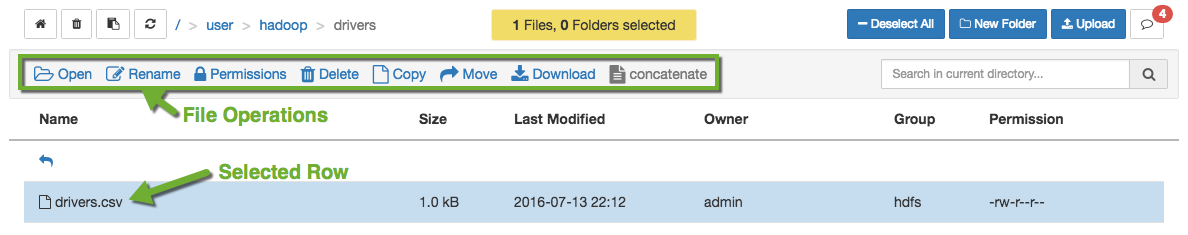
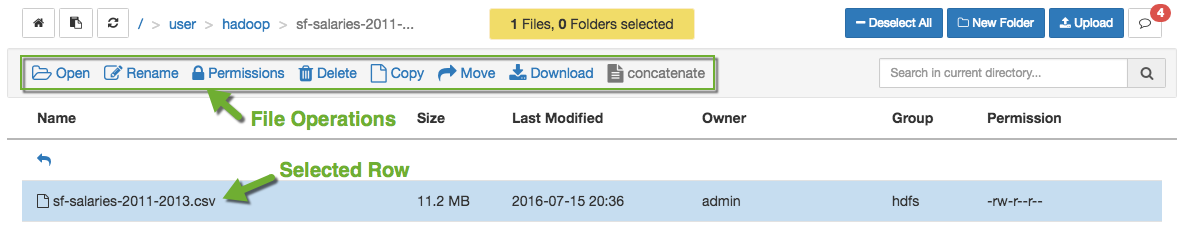
updated tutorial 2
- added new pictures
- updated some instructions

diff --git a/tutorials/hortonworks/using-the-command-line-to-manage-files-on-hdfs/tutorial2.md b/tutorials/hortonworks/using-the-command-line-to-manage-files-on-hdfs/tutorial2.md
@@ -33,15 +33,16 @@ cd ~/Downloads
 wget https://raw.githubusercontent.com/hortonworks/tutorials/hdp/assets/using-the-command-line-to-manage-hdfs/sf-salary-datasets/sf-salaries-2011-2013.csv
 # download sf-salaries-2014
 wget https://raw.githubusercontent.com/hortonworks/tutorials/hdp/assets/using-the-command-line-to-manage-hdfs/sf-salary-datasets/sf-salaries-2014.csv
+mkdir sf-salary-datasets
+mv sf-salaries-2011-2013.csv sf-salaries-2014.csv sf-salary-datasets/
 ~~~
 
-![list_geolocation_contents](/assets/using-the-command-line-to-manage-hdfs/list_geolocation_contents.png)
 
 ## Goals for this Module:
 *  Learn how to use HDFS from Ambari Files View
 
 ## Outline
-- [Step 1: Create a directory in HDFS, Upload a file and List Contents](#create-a-directory-in-hdfs-upload-a-file-and-list-contents)
+- [Step 1: Create a Directory in HDFS, Upload a file and List Contents](#create-a-directory-in-hdfs-upload-a-file-and-list-contents)
 - [Step 2: Find Out Space Utilization in a HDFS Directory](#find-out-space-utilization-in-a-hdfs-directory)
 - [Step 3: Download Files From HDFS to Local Machine() ](#download-files-hdfs-to-local-file-system)
 - [Step 4: Explore Two Advanced Features](#explore-two-advanced-features)
@@ -78,7 +79,7 @@ The Files View Interface will appear with the following default folders.
 
 4\. Navigate into the **hadoop** folder. Create the _three folders_: **sf-salaries-2011-2013, sf-salaries and sf-salaries-2014** following the process stated in the previous instruction.
 
-![vehicle_related_folders](/assets/using-the-command-line-to-manage-hdfs/tutorial2/vehicle_related_folders.png)
+![hadoop_internal_folders](/assets/using-the-command-line-to-manage-hdfs/tutorial2/hadoop_internal_folders.png)
 
 ### Upload Local Machine Files to HDFS
 
@@ -90,13 +91,13 @@ An Upload file window appears:
 
 ![upload_file_window](/assets/using-the-command-line-to-manage-hdfs/tutorial2/upload_file_window.png)
 
-2\. Click on the cloud with an arrow. A window with files from your local machine appears, find **sf-salaries-2011-2013.csv** in the **Downloads** folder, select it and then press **open** button.
+2\. Click on the cloud with an arrow. A window with files from your local machine appears, find **sf-salaries-2011-2013.csv** in the **Downloads/sf-salary-datasets** folder, select it and then press **open** button.
 
-![drivers_csv](/assets/using-the-command-line-to-manage-hdfs/tutorial2/drivers_csv.png)
+![sf_salaries_2011_2013_csv](/assets/using-the-command-line-to-manage-hdfs/tutorial2/sf_salaries_2011_2013_csv.png)
 
 3\. Navigate to the hadoop folder and enter the **sf-salaries-2014** folder. Repeat the upload file process to upload **sf-salaries-2014.csv**.
 
-![trucks_csv](/assets/using-the-command-line-to-manage-hdfs/tutorial2/trucks_csv.png)
+![sf_salaries_2014_csv](/assets/using-the-command-line-to-manage-hdfs/tutorial2/sf_salaries_2014_csv.png)
 
 ### View and Examine Directory Contents
 
@@ -119,9 +120,9 @@ Each time we open a directory, the Files View automatically lists the contents. 
 
 In the command line when the directories and files are listed with the `hadoop fs -du /user/hadoop/`, the size of the directory and file is shown. In Files View, we must navigate to the file to see the size, we are not able to see the **size** of the directory if it contains files.
 
-1\.  Let's view the size of sf-salaries-2011-2013.csv file. Navigate through `/user/hadoop/sf-salaries-2011-2013`. How much space has the file utilized? Files View shows **1.0 kB** for sf-salaries-2011-2013.csv.
+1\.  Let's view the size of sf-salaries-2011-2013.csv file. Navigate through `/user/hadoop/sf-salaries-2011-2013`. How much space has the file utilized? Files View shows **11.2 MB** for sf-salaries-2011-2013.csv.
 
-![drivers_csv](/assets/using-the-command-line-to-manage-hdfs/tutorial2/drivers_csv.png)
+![sf_salaries_2011_2013_csv](/assets/using-the-command-line-to-manage-hdfs/tutorial2/sf_salaries_2011_2013_csv.png)
 
 
 ### Step 3: Download File From HDFS to Local Machine(Mac, Windows, Linux) <a id="download-files-hdfs-to-local-file-system"></a>
@@ -139,13 +140,19 @@ Files View enables users to download files and folders to their local machine wi
 
 File Concatenation merges two files together. If we concatenate **sf-salaries-2011-2013.csv** with **sf-salaries-2014.csv**, the data from sf-salaries-2014.csv will be appended to the end of sf-salaries-2011-2013.csv. A typical use case for a user to use this feature is when they have similar large datasets that they want to merge together. The manual process to combine large datasets is inconvenient, so file concatenation was created to do the operation instantly.
 
-1\. We will merge two large files together by selecting them both and performing concatenate operation. Move sf-salaries-2011-2013.csv to the sf-salaries-2014 folder. Select sf-salaries-2011-2013.csv, hold shift and click on sf-salaries-2014.csv. Click the concatenate button. The files will be downloaded into the **Download** folder on your local machine.
+1\. Before we merge the csv files, we must place them in the same folder. Click on sf-salaries-2011-2013.csv row, it will highlight in blue, then press copy and in the copy window select the sf-salaries-2014 folder to copy the csv file to it.
 
-![concatenate_drivers_trucks](/assets/using-the-command-line-to-manage-hdfs/tutorial2/concatenate_drivers_trucks.png)
+![copy_to_sf_salaries_2014](/assets/using-the-command-line-to-manage-hdfs/tutorial2/copy_to_sf_salaries_2014.png)
+
+2\. We will merge two large files together by selecting them both and performing concatenate operation. Navigate to the sf-salaries-2014 folder. Select sf-salaries-2011-2013.csv, hold shift and click on sf-salaries-2014.csv. Click the concatenate button. The files will be downloaded into the **Download** folder on your local machine.
+
+![concatenate_csv_files](/assets/using-the-command-line-to-manage-hdfs/tutorial2/concatenate_csv_files.png)
+
+3\. By default, Files View saves the merged files as a txt file, we can open the file and save it as a csv file. Then open the csv file and you will notice that all the salaries from 2014 are appended to the salaries from 2011-2013.
 
 ### Copy Files or Directories recursively
 
-Copy file or directories recursively means all the directory's files and subdirectories to the bottom of the directory tree are copied. For instance, we will copy the hadoop directory and all of its contents to a new location with in our hadoop cluster. In production, the copy operation is used to copy large datasets within the hadoop cluster or between 2 or more clusters.
+Copy file or directories recursively means all the directory's files and subdirectories to the bottom of the directory tree are copied. For instance, we will copy the hadoop directory and all of its contents to a new location within our hadoop cluster. In production, the copy operation is used to copy large datasets within the hadoop cluster or between 2 or more clusters.
 
 1\. Navigate to the **user** directory. Click on the row of the **hadoop** directory. Select the Copy button ![copy_button](/assets/using-the-command-line-to-manage-hdfs/tutorial2/copy_button.png).
 
